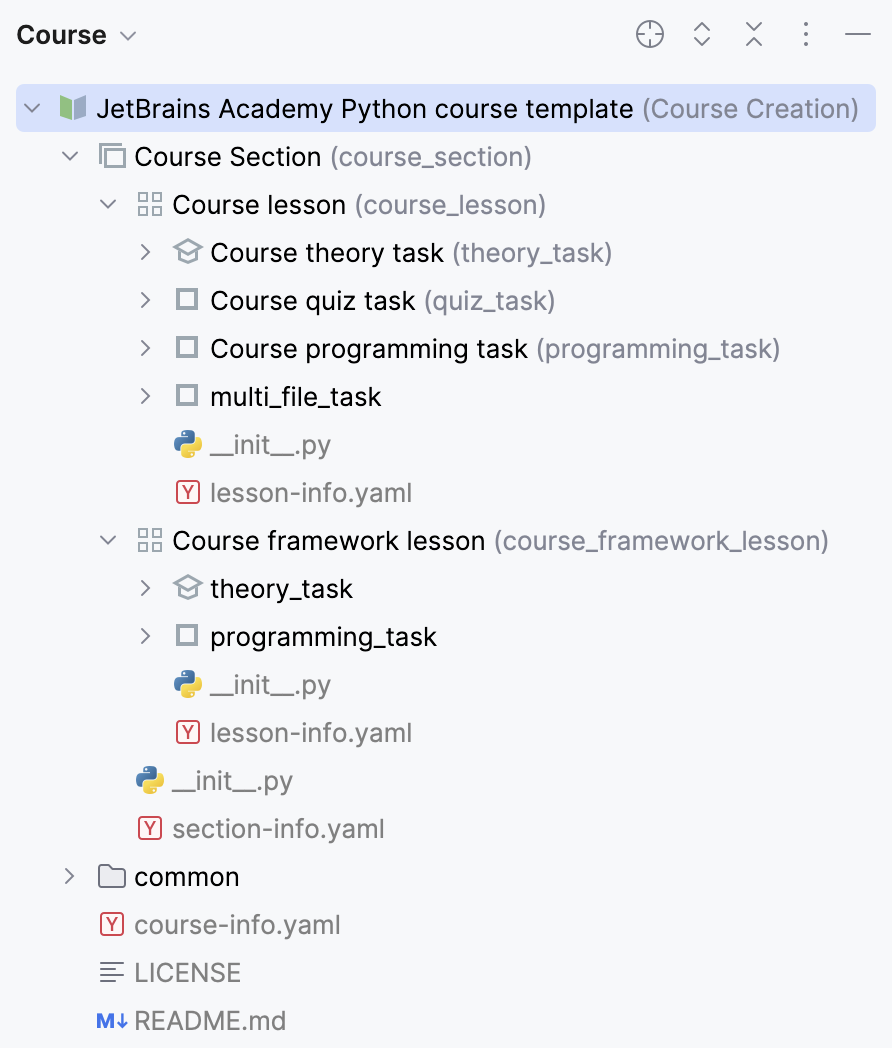
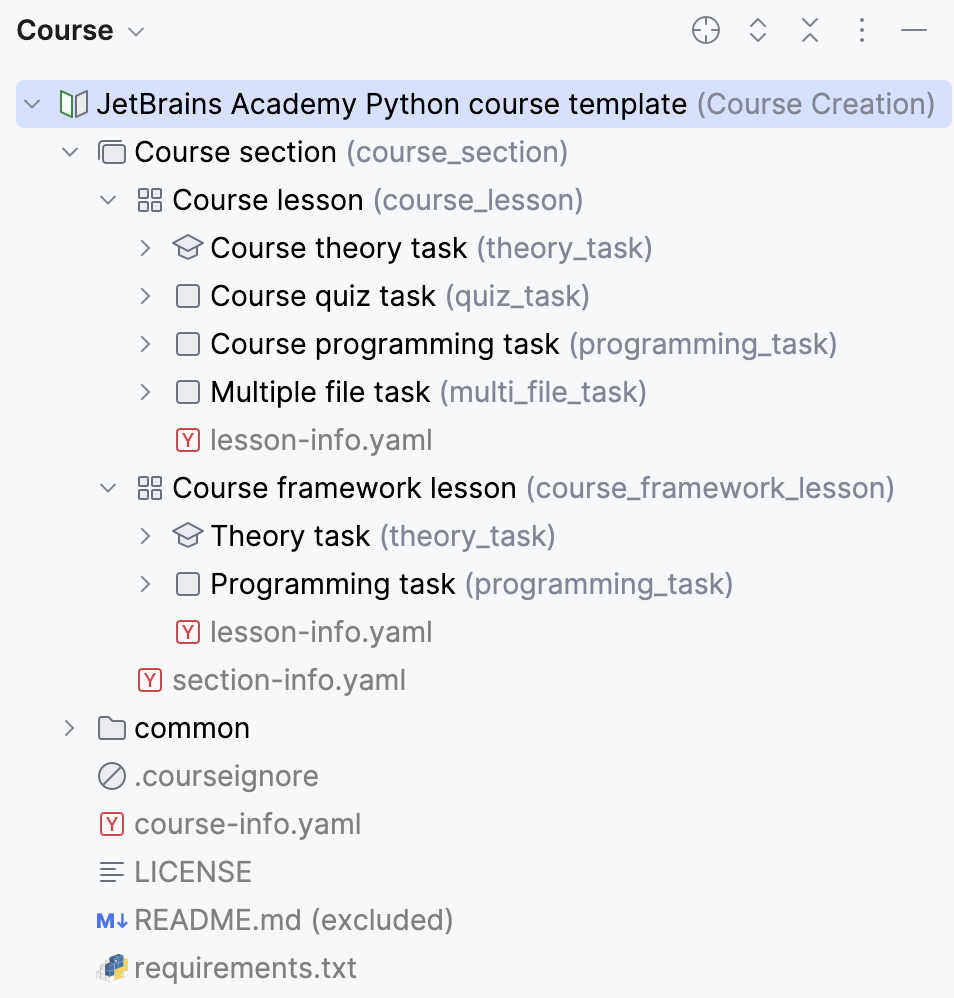
feat: add information about course dependencies fix: fix small typos fix: update the course structure author screenshot and add the course structure student screenshot

Changed region(s): [[0.0605, 0.0621, 0.9989, 0.994], [0.0, 0.0, 0.1211, 0.0621], [0.7265, 0.0, 0.7567, 0.0621]]

diff --git a/README.md b/README.md
@@ -29,6 +29,7 @@ In this README, we will highlight the following elements of template-project cre
 - [Getting started](#getting-started)
 - [Course info configuration file](#course-info-configuration-file)
 - [Course ignore file](#course-ignore-file)
+- [Course dependencies](#course-dependencies)
 - [Sample code](#sample-code)
 - [Testing](#testing)
 - [Useful links](#useful-links)
@@ -44,7 +45,7 @@ All you need to do is click the <kbd>Use this template</kbd> button (you must be
 ![Use this template][file:use-template-blur]
 
 The most convenient way of getting your new project from GitHub is the <kbd>Get from VCS</kbd> action available on the Welcome Screen,
-where you can filter your GitHub  repository by its name.
+where you can filter your GitHub repository by its name.
 
 ![Get from version control][file:get_from_vcs.png]
 
@@ -57,6 +58,7 @@ A generated JetBrains Academy Python Course Template repository contains the fol
 .
 ├── LICENSE
 ├── README.md                      README
+├── requirements.txt               Course depedencies
 ├── common                         Course sources common for all sections
 │   └── resources                  Resources - images, icons
 ├── course-info.yaml               Course info configuration file
@@ -117,9 +119,24 @@ README.md
 You can find more information about the course preview in the [Course preview][ref:course.preview] section. Information
 about creating a course archive and uploading it to the marketplace is in the [Course distribution][ref:course.distribution] section.
 
+## Course dependencies
+You should write all your course dependencies in the [`requirements.txt`](requirements.txt) file. 
+It will be used for creating a virtual environment before students begin the course.
+
+Before developing the course, you should set up the environment yourself:
+* For Windows:
+  ```shell
+  python3 -m venv .venv && .\.venv\Scripts\activate && pip install -r requirements.txt
+  ```
+  
+* For Linux/MacOS:
+  ```bash
+  python3 -m venv .venv && source .venv/bin/activate && pip install -r requirements.txt
+  ```
+
 ## Sample code
 
-The prepared template provides an example of a course with one section, two lessons, and five tasks in total.
+The prepared template provides an example of a course with one section, two lessons, and six tasks in total.
 
 ![Course structure in the course creator mode][file:course-structure-author]
 
@@ -127,9 +144,6 @@ Each course may have an unlimited number of sections, lessons, and tasks.
 Students will see almost the same course structure as the educator (course author):
 
 ![Course structure in the course student mode][file:course-structure-student]
-
-The main difference is in framework lessons, which display
-only task files, without intermediate steps.
 
 You can read more about framework lessons in the official documentation in the [Framework Lessons Creation][ref:framework.lessons.creation] section.
 
@@ -144,8 +158,8 @@ You can read more about tasks in the official documentation in the [Task][ref:ta
 
 ## Testing
 
-To check the programming exercises for [**edu**][ref:tasks] tasks, you need to write tests ungin [unittest](https://docs.python.org/3/library/unittest.html) framework.
-
+To check the programming exercises for [**edu**][ref:tasks] tasks, 
+you need to write tests using [unittest](https://docs.python.org/3/library/unittest.html) framework.
 
 You can find little examples of programming tasks in the repository in the `test.py` files:
 in [course lesson][file:course.lesson.tests] and [course framework lesson][file:course.framework.lesson.tests].
